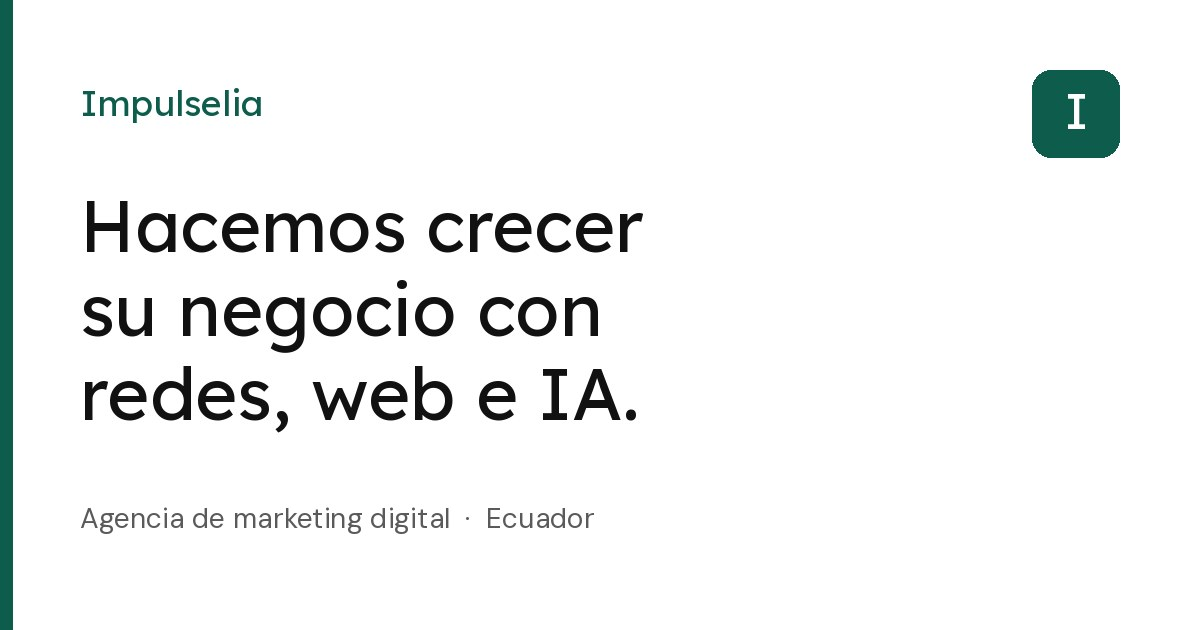
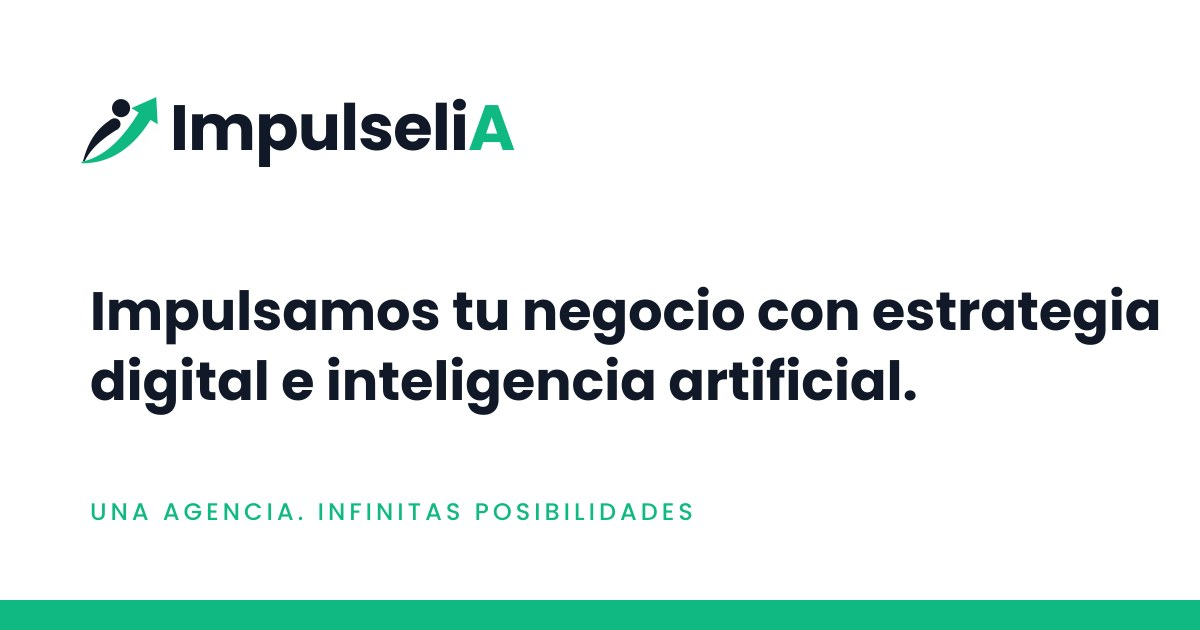
Actualizar ImpulseliA: marca, lema, experiencia previa y secciones nuevas.
Corrige la ortografía ImpulseliA, el lema y la frase principal, cambia
"marcas que confían" por experiencia previa, y publica Sectores, Cómo
trabajamos y FAQ que ya estaban listos en local.

diff --git a/index.html b/index.html
@@ -3,23 +3,23 @@
 <head>
   <meta charset="utf-8">
   <meta name="viewport" content="width=device-width, initial-scale=1, viewport-fit=cover">
-  <title>Impulselia — Marketing digital con redes, web e IA en Ecuador</title>
-  <meta name="description" content="Impulselia ayuda a empresas y profesionales en Ecuador a crecer con redes sociales, páginas web, perfil de Google y contenido con IA que usted aprueba. Diagnóstico gratis.">
-  <meta name="theme-color" content="#0E5C4C">
+  <title>ImpulseliA — Agencia de marketing digital e inteligencia artificial en Ecuador</title>
+  <meta name="description" content="ImpulseliA: agencia de marketing digital en Ecuador. Impulsamos tu negocio con estrategia digital e inteligencia artificial: redes sociales, páginas web, perfil de Google y asistentes con IA. Diagnóstico gratis.">
+  <meta name="theme-color" content="#10B981">
   <link rel="canonical" href="https://coorporacionesleon-svg.github.io/impulselia/">
   <meta property="og:url" content="https://coorporacionesleon-svg.github.io/impulselia/">
-  <meta name="author" content="Impulselia">
+  <meta name="author" content="ImpulseliA">
   <meta property="og:type" content="website">
   <meta property="og:locale" content="es_EC">
-  <meta property="og:site_name" content="Impulselia">
-  <meta property="og:title" content="Impulselia — Hacemos crecer su negocio con redes, web e IA">
+  <meta property="og:site_name" content="ImpulseliA">
+  <meta property="og:title" content="ImpulseliA — Impulsamos tu negocio con estrategia digital e inteligencia artificial">
   <meta property="og:description" content="Agencia de marketing digital en Ecuador. Redes sociales, páginas web, perfil de Google y contenido con IA, con fotos reales en su negocio. Diagnóstico gratis.">
   <meta property="og:image" content="https://coorporacionesleon-svg.github.io/impulselia/assets/img/og.jpg">
   <meta property="og:image:width" content="1200">
   <meta property="og:image:height" content="630">
-  <meta property="og:image:alt" content="Impulselia: Hacemos crecer su negocio con redes, web e IA.">
+  <meta property="og:image:alt" content="ImpulseliA: Impulsamos tu negocio con estrategia digital e inteligencia artificial.">
   <meta name="twitter:card" content="summary_large_image">
-  <meta name="twitter:title" content="Impulselia — Hacemos crecer su negocio con redes, web e IA">
+  <meta name="twitter:title" content="ImpulseliA — Impulsamos tu negocio con estrategia digital e inteligencia artificial">
   <meta name="twitter:description" content="Agencia de marketing digital en Ecuador. Redes, web, perfil de Google y contenido con IA. Diagnóstico gratis.">
   <meta name="twitter:image" content="https://coorporacionesleon-svg.github.io/impulselia/assets/img/og.jpg">
   <link rel="icon" href="assets/img/favicon.svg" type="image/svg+xml">
@@ -29,28 +29,30 @@
   <link rel="preload" href="assets/fonts/lexend.woff2" as="font" type="font/woff2" crossorigin>
   <link rel="preload" href="assets/fonts/dm-sans.woff2" as="font" type="font/woff2" crossorigin>
   <style>
+    @font-face{font-family:Poppins;src:url("assets/fonts/poppins-semibold.woff2") format("woff2");font-weight:500 650;font-display:swap}
+    @font-face{font-family:Poppins;src:url("assets/fonts/poppins-bold.woff2") format("woff2");font-weight:651 900;font-display:swap}
     @font-face{font-family:Lexend;src:url("assets/fonts/lexend.woff2") format("woff2");font-weight:100 900;font-display:swap}
     @font-face{font-family:"DM Sans";src:url("assets/fonts/dm-sans.woff2") format("woff2");font-weight:100 900;font-display:swap}
 
     :root{
       --bg:#fff;
-      --soft:#f5f5f3;
-      --ink:#111;
-      --muted:#5c5c5c;
-      --line:#e6e6e4;
-      --accent:#0E5C4C;
-      --accent-hover:#0a463a;
-      --on-accent:#fff;
+      --soft:#F3F4F6;
+      --ink:#111827;
+      --muted:#4B5563;
+      --line:#E5E7EB;
+      --accent:#10B981;
+      --accent-hover:#0E9F6E;
+      --on-accent:#111827;
       --max:1120px;
-      --disp:"Lexend",system-ui,sans-serif;
+      --disp:"Poppins","Lexend",system-ui,sans-serif;
       --sans:"DM Sans",system-ui,sans-serif;
-      --wa:https://wa.me/593958952980?text=Hola%20Impulselia%2C%20quiero%20mi%20diagn%C3%B3stico%20gratis;
+      --wa:https://wa.me/593958952980?text=Hola%20ImpulseliA%2C%20quiero%20mi%20diagn%C3%B3stico%20gratis;
     }
     *{box-sizing:border-box;margin:0;padding:0}
     html{scroll-behavior:smooth;-webkit-text-size-adjust:100%}
     body{font-family:var(--sans);color:var(--ink);background:var(--bg);line-height:1.5;font-size:18px;font-weight:400}
     img,svg{display:block;max-width:100%;height:auto}
-    a{color:var(--accent);text-decoration-thickness:1px;text-underline-offset:3px}
+    a{color:var(--ink);text-decoration-color:var(--accent);text-decoration-thickness:1px;text-underline-offset:3px}
     a:hover{color:var(--accent-hover)}
     :focus-visible{outline:2px solid var(--accent);outline-offset:3px}
     .skip{position:absolute;left:-999px;top:0;background:var(--accent);color:#fff;padding:.75rem 1rem;z-index:100}
@@ -82,8 +84,8 @@
 
     /* Buttons */
     .btn{display:inline-flex;align-items:center;justify-content:center;gap:10px;font-family:var(--disp);font-weight:600;font-size:1rem;line-height:1;border-radius:999px;padding:16px 24px;text-decoration:none;border:1.5px solid transparent;transition:background .2s,color .2s,transform .2s,box-shadow .2s}
-    .btn-p{background:var(--accent);color:var(--on-accent);box-shadow:0 10px 24px rgba(14,92,76,.18)}
-    .btn-p:hover{background:var(--accent-hover);color:#fff;transform:translateY(-1px)}
+    .btn-p{background:var(--accent);color:var(--on-accent);box-shadow:0 10px 24px rgba(16,185,129,.18)}
+    .btn-p:hover{background:var(--accent-hover);color:#111827;transform:translateY(-1px)}
     .btn-g{background:transparent;color:var(--ink);border-color:var(--line)}
     .btn-g:hover{border-color:var(--ink);color:var(--ink)}
     .btn svg{width:18px;height:18px;flex:0 0 auto}
@@ -96,12 +98,13 @@
       .hero-grid{grid-template-columns:1fr 200px;align-items:end;gap:48px}
     }
     .eyebrow{font-family:var(--disp);font-weight:600;font-size:.78rem;letter-spacing:.14em;text-transform:uppercase;color:var(--accent);margin-bottom:22px}
-    h1{font-family:var(--disp);font-weight:700;letter-spacing:-.035em;line-height:1.02;font-size:clamp(2.7rem, 9.2vw, 5.15rem);max-width:18ch}
+    h1{font-family:var(--disp);font-weight:700;letter-spacing:-.03em;line-height:1.06;font-size:clamp(2.2rem, 7vw, 4.2rem);max-width:20ch}
     .lead{margin-top:24px;font-size:clamp(1.05rem, 2vw, 1.3rem);color:var(--muted);max-width:34ch;line-height:1.45}
     .hero-cta{display:flex;flex-wrap:wrap;align-items:center;gap:16px 22px;margin-top:36px}
     .phone{font-family:var(--disp);font-weight:600;color:var(--ink);text-decoration:none;font-size:1.05rem}
     .phone:hover{color:var(--accent)}
-    .sello{width:148px;height:148px;margin-inline:auto}
+    .sello{width:200px;height:200px;margin-inline:auto}
+    .lema{margin-top:18px;font-family:var(--disp);font-weight:600;font-size:.9rem;letter-spacing:.12em;text-transform:uppercase;color:var(--ink)}.lema span{color:var(--accent)}
     @media(max-width:899px){.sello-wrap{display:none}}
 
     /* Sections */
@@ -111,6 +114,7 @@
     h2{font-family:var(--disp);font-weight:700;letter-spacing:-.03em;line-height:1.08;font-size:clamp(1.9rem, 4.6vw, 3.25rem)}
     .section-head{margin-bottom:48px}
     .section-head p{margin-top:14px;color:var(--muted);font-size:1.1rem;max-width:36ch;line-height:1.45}
+    .section-head p.kicker{margin-top:0;color:var(--accent);font-size:.75rem;max-width:none}
 
     /* Services */
     #servicios{background:var(--soft);border-block:1px solid var(--line)}
@@ -146,7 +150,7 @@
     .plans{display:grid;gap:18px}
     @media(min-width:860px){.plans{grid-template-columns:1fr 1fr 1fr;gap:20px;align-items:stretch}}
     .plan{background:#fff;border:1px solid var(--line);border-radius:20px;padding:28px 26px 30px;display:flex;flex-direction:column;position:relative}
-    .plan.hi{border:2px solid var(--accent);box-shadow:0 18px 40px rgba(14,92,76,.1);padding-top:36px}
+    .plan.hi{border:2px solid var(--accent);box-shadow:0 18px 40px rgba(16,185,129,.1);padding-top:36px}
     .badge{position:absolute;top:-13px;left:24px;background:var(--accent);color:#fff;font-family:var(--disp);font-weight:700;font-size:.68rem;letter-spacing:.1em;text-transform:uppercase;padding:6px 12px;border-radius:999px}
     .plan h3{font-family:var(--disp);font-weight:650;font-size:1.15rem;color:var(--accent)}
     .price{font-family:var(--disp);font-weight:700;letter-spacing:-.03em;font-size:3rem;line-height:1;margin:10px 0 6px}
@@ -210,24 +214,46 @@
       .work img,.btn{transition:none}
       .btn-p:hover{transform:none}
     }
+
+    /* Sectores, pasos, FAQ (v5) */
+    section.alt{background:var(--soft)}
+    .sectors{list-style:none;display:grid;gap:14px;grid-template-columns:repeat(auto-fill,minmax(240px,1fr))}
+    .sectors li{background:#fff;border:1px solid var(--line);border-radius:16px;padding:20px 20px 22px;border-top:4px solid var(--accent)}
+    .sectors b{display:block;font-family:var(--disp);font-weight:600;font-size:1.02rem;margin-bottom:6px}
+    .sectors span{color:var(--muted);font-size:.95rem;line-height:1.4}
+    .steps{list-style:none;counter-reset:s;display:grid;gap:14px}
+    @media(min-width:900px){.steps{grid-template-columns:repeat(5,1fr)}}
+    .steps li{counter-increment:s;border:1px solid var(--line);border-radius:16px;padding:22px 20px}
+    .steps li::before{content:counter(s);display:grid;place-items:center;width:36px;height:36px;border-radius:50%;background:var(--accent);color:#111827;font-family:var(--disp);font-weight:700;margin-bottom:12px}
+    .steps b{display:block;font-family:var(--disp);font-weight:600;margin-bottom:6px}
+    .steps span{color:var(--muted);font-size:.95rem;line-height:1.4}
+    .faq{display:grid;gap:10px;max-width:820px}
+    .faq details{background:#fff;border:1px solid var(--line);border-radius:14px;padding:18px 20px}
+    .faq summary{cursor:pointer;font-family:var(--disp);font-weight:600;list-style:none;display:flex;justify-content:space-between;gap:12px}
+    .faq summary::after{content:"+";color:var(--accent);font-weight:700}
+    .faq details[open] summary::after{content:"–"}
+    .faq p{margin-top:10px;color:var(--muted)}
+    .svc-more{margin-top:28px;color:var(--muted);font-size:.98rem;max-width:70ch}
   </style>
+  <script type="application/ld+json">{"@context":"https://schema.org","@type":"ProfessionalService","name":"ImpulseliA","slogan":"Una agencia. Infinitas posibilidades","description":"Agencia de marketing digital en Ecuador: redes sociales, páginas web, perfil de Google y asistentes con inteligencia artificial.","url":"https://coorporacionesleon-svg.github.io/impulselia/","telephone":"+593958952980","areaServed":"EC","logo":"https://coorporacionesleon-svg.github.io/impulselia/assets/img/favicon-512.png"}</script>
 </head>
 <body>
   <a class="skip" href="#inicio">Saltar al contenido</a>
   <header>
     <div class="wrap bar">
       <a class="brand" href="#inicio">
-        <img src="assets/img/favicon.svg" width="32" height="32" alt="">
-        Impulselia
+        <img src="assets/img/logo-impulselia.svg" width="176" height="36" alt="ImpulseliA" style="width:auto;height:36px">
       </a>
       <input type="checkbox" id="nav-toggle" class="nav-toggle" autocomplete="off">
       <label class="burger" for="nav-toggle" aria-label="Abrir menú"><span></span><span></span><span></span></label>
       <nav class="links" aria-label="Principal">
         <a href="#servicios">Servicios</a>
-        <a href="#portafolio">Portafolio</a>
+        <a href="#sectores">Sectores</a>
+        <a href="#como-trabajamos">Cómo trabajamos</a>
         <a href="#paquetes">Paquetes</a>
+        <a href="#preguntas">Preguntas</a>
         <a href="#contacto">Contacto</a>
-        <a class="btn btn-p wa-btn" href="https://wa.me/593958952980?text=Hola%20Impulselia%2C%20quiero%20mi%20diagn%C3%B3stico%20gratis">WhatsApp</a>
+        <a class="btn btn-p wa-btn" href="https://wa.me/593958952980?text=Hola%20ImpulseliA%2C%20quiero%20mi%20diagn%C3%B3stico%20gratis">WhatsApp</a>
       </nav>
     </div>
   </header>
@@ -236,19 +262,20 @@
     <section class="hero">
       <div class="wrap hero-grid">
         <div>
-          <p class="eyebrow">Especialistas en IA para empresas · Ecuador</p>
-          <h1>Hacemos crecer<br>su negocio con<br>redes, web e IA.</h1>
-          <p class="lead">Fotos reales, contenido que usted aprueba y un perfil de Google al día.</p>
+          <p class="eyebrow">Agencia de marketing digital · Ecuador</p>
+          <h1>Impulsamos tu negocio con estrategia digital e inteligencia artificial.</h1>
+          <p class="lead">Redes sociales, páginas web, perfil de Google y asistentes con IA, con fotos reales de su negocio y contenido que usted aprueba.</p>
+          <p class="lema">Una agencia. <span>Infinitas posibilidades.</span></p>
           <div class="hero-cta">
-            <a class="btn btn-p" href="https://wa.me/593958952980?text=Hola%20Impulselia%2C%20quiero%20mi%20diagn%C3%B3stico%20gratis">
+            <a class="btn btn-p" href="https://wa.me/593958952980?text=Hola%20ImpulseliA%2C%20quiero%20mi%20diagn%C3%B3stico%20gratis">
               <svg viewBox="0 0 24 24" fill="currentColor" aria-hidden="true"><path d="M20.5 3.5A11 11 0 0 0 2.1 17.3L1 23l5.8-1.1A11 11 0 0 0 20.5 3.5zm-8.5 17a9.1 9.1 0 0 1-4.6-1.3l-.33-.2-3.45.66.67-3.36-.22-.35A9.1 9.1 0 1 1 12 20.5zm5.2-6.8c-.28-.14-1.66-.82-1.92-.91-.26-.1-.45-.14-.64.14-.19.28-.73.91-.9 1.1-.16.18-.33.21-.61.07-.28-.14-1.18-.43-2.25-1.39-.83-.74-1.39-1.65-1.55-1.93-.16-.28-.02-.43.12-.57.13-.13.28-.33.42-.5.14-.16.19-.28.28-.47.1-.18.05-.35-.02-.5-.07-.14-.64-1.54-.88-2.11-.23-.55-.47-.47-.64-.48h-.55c-.19 0-.5.07-.76.35-.26.28-1 1-1 2.43s1.03 2.82 1.17 3.02c.14.19 2.02 3.08 4.9 4.32.68.3 1.22.47 1.64.6.69.22 1.31.19 1.8.11.55-.08 1.66-.68 1.9-1.33.23-.65.23-1.21.16-1.33-.07-.11-.25-.18-.53-.32z"/></svg>
               Quiero mi diagnóstico gratis
             </a>
-            <a class="phone" href="https://wa.me/593958952980?text=Hola%20Impulselia%2C%20quiero%20mi%20diagn%C3%B3stico%20gratis">WhatsApp 095 895 2980</a>
+            <a class="phone" href="https://wa.me/593958952980?text=Hola%20ImpulseliA%2C%20quiero%20mi%20diagn%C3%B3stico%20gratis">WhatsApp 095 895 2980</a>
           </div>
         </div>
         <div class="sello-wrap">
-          <img class="sello" src="assets/img/sello.svg" width="148" height="148" alt="Especialistas en IA para empresas, Ecuador">
+          <img class="sello" src="assets/img/isotipo.svg" width="200" height="200" alt="">
         </div>
       </div>
     </section>
@@ -283,7 +310,7 @@
           <article>
             <div class="n">05</div>
             <h3>Asistente de WhatsApp con IA</h3>
-            <p>Responde preguntas frecuentes, ofrece citas y envía recordatorios. No diagnostica ni entrega resultados.</p>
+            <p>Responde consultas generales y administrativas, ofrece citas y envía recordatorios. No diagnostica ni entrega resultados; las consultas clínicas pasan al profesional.</p>
           </article>
           <article>
             <div class="n">06</div>
@@ -294,33 +321,74 @@
       </div>
     </section>
 
+
+    <section id="sectores" class="alt">
+      <div class="wrap">
+        <div class="section-head">
+          <p class="kicker">Sectores</p>
+          <h2>Soluciones que se adaptan<br>a su tipo de negocio</h2>
+          <p>Ajustamos la estrategia, el contenido y las herramientas a cada industria.</p>
+        </div>
+        <ul class="sectors">
+          <li><b>Clínicas y consultorios médicos</b><span>Contenido educativo aprobado por el profesional.</span></li>
+          <li><b>Radiólogos y especialistas de salud</b><span>Preparación de estudios explicada en palabras simples.</span></li>
+          <li><b>Restaurantes y cafeterías</b><span>Fotos que abren el apetito, menú y reservas por WhatsApp.</span></li>
+          <li><b>Tiendas y comercios</b><span>Catálogo, promociones y ventas por mensaje.</span></li>
+          <li><b>Bienes raíces</b><span>Fotos y videos de propiedades, contactos ordenados.</span></li>
+          <li><b>Hoteles y turismo</b><span>Contenido que invita a visitar y reservas directas.</span></li>
+          <li><b>Educación</b><span>Inscripciones, información y comunidad.</span></li>
+          <li><b>Empresas y PYMES</b><span>Presencia profesional y procesos más simples.</span></li>
+          <li><b>Belleza y estética</b><span>Antes y después con autorización, citas por WhatsApp.</span></li>
+          <li><b>Automotriz</b><span>Inventario, servicios y agenda de taller.</span></li>
+          <li><b>Profesionales independientes</b><span>Marca personal, web y agenda.</span></li>
+        </ul>
+      </div>
+    </section>
+
+    <section id="como-trabajamos">
+      <div class="wrap">
+        <div class="section-head">
+          <p class="kicker">Cómo trabajamos</p>
+          <h2>Un proceso simple,<br>con su aprobación en cada paso</h2>
+        </div>
+        <ol class="steps">
+          <li><b>Diagnóstico gratis</b><span>Revisamos sus redes, su web y su perfil de Google, sin compromiso.</span></li>
+          <li><b>Propuesta y muestras</b><span>Le proponemos un plan y le mostramos 3 contenidos hechos para usted.</span></li>
+          <li><b>Sesión de fotos y video</b><span>Vamos a su negocio con cámara profesional.</span></li>
+          <li><b>Usted aprueba</b><span>Nada se publica sin su visto bueno.</span></li>
+          <li><b>Publicamos y le informamos</b><span>Publicamos lo acordado y le contamos cómo va, mes a mes.</span></li>
+        </ol>
+      </div>
+    </section>
+
     <section id="portafolio">
       <div class="wrap">
         <div class="section-head">
-          <p class="kicker">Portafolio</p>
-          <h2>Marcas que ya<br>confían en nosotros</h2>
+          <p class="kicker">Experiencia previa</p>
+          <h2>Trabajos realizados<br>para conocidos</h2>
+          <p>Hace aproximadamente un año hicimos estos cuatro trabajos digitales de forma informal. Nos dieron experiencia práctica y muestran nuestro estilo.</p>
         </div>
         <div class="grid-works">
           <a class="work" href="https://www.instagram.com/licorinoec/" target="_blank" rel="noopener noreferrer">
-            <div class="pic sq"><img src="assets/img/licorino.webp" alt="Publicaciones de Instagram de Licorino EC: licores, cocteles y marcas" width="1080" height="1080"></div>
+            <div class="pic sq"><img loading="lazy" decoding="async" src="assets/img/licorino.webp" alt="Publicaciones de Instagram de Licorino EC: licores, cocteles y marcas" width="1080" height="1080"></div>
             <h3>Licorino</h3>
             <p>Licores y cocteles</p>
             <span class="go">Ver Instagram ↗</span>
           </a>
           <a class="work" href="https://www.instagram.com/dulce.pretexto/" target="_blank" rel="noopener noreferrer">
-            <div class="pic"><img src="assets/img/dulce-pretexto.webp" alt="Postre de lima de la repostería Dulce Pretexto, en Quito" width="607" height="640"></div>
+            <div class="pic"><img loading="lazy" decoding="async" src="assets/img/dulce-pretexto.webp" alt="Postre de lima de la repostería Dulce Pretexto, en Quito" width="607" height="640"></div>
             <h3>Dulce Pretexto</h3>
             <p>Repostería · Quito</p>
             <span class="go">Ver Instagram ↗</span>
           </a>
           <a class="work" href="https://www.instagram.com/hosterialoscedros/" target="_blank" rel="noopener noreferrer">
-            <div class="pic"><img src="assets/img/los-cedros.webp" alt="Letrero de madera de la Hostería Los Cedros, en Mindo" width="360" height="640"></div>
+            <div class="pic"><img loading="lazy" decoding="async" src="assets/img/los-cedros.webp" alt="Letrero de madera de la Hostería Los Cedros, en Mindo" width="360" height="640"></div>
             <h3>Hostería Los Cedros</h3>
             <p>Hostería · Mindo</p>
             <span class="go">Ver Instagram ↗</span>
           </a>
           <a class="work span" href="https://medicina-interna-leo-gpl3zv.abacusai.app/" target="_blank" rel="noopener noreferrer">
-            <div class="pic wide"><img src="assets/img/dr-leon.webp" style="object-position:top center" alt="Página web del Dr. Franklin León, médico internista" width="1280" height="800"></div>
+            <div class="pic wide"><img loading="lazy" decoding="async" src="assets/img/dr-leon.webp" style="object-position:top center" alt="Página web del Dr. Franklin León, médico internista" width="1280" height="800"></div>
             <h3>Dr. Franklin León</h3>
             <p>Página web · Medicina interna</p>
             <span class="go">Ver sitio ↗</span>
@@ -349,7 +417,7 @@
               <li>Actualización de web aparte: $200</li>
               <li>Asistente de WhatsApp con IA: opcional, con costo adicional</li>
             </ul>
-            <a class="btn btn-g" href="https://wa.me/593958952980?text=Hola%20Impulselia%2C%20me%20interesa%20el%20paquete%20Esencial">Elegir Esencial</a>
+            <a class="btn btn-g" href="https://wa.me/593958952980?text=Hola%20ImpulseliA%2C%20me%20interesa%20el%20paquete%20Esencial">Elegir Esencial</a>
           </article>
           <article class="plan hi">
             <div class="badge">Más recomendado</div>
@@ -366,7 +434,7 @@
               <li>Perfil de Google</li>
               <li>Asistente de WhatsApp con IA incluido, sin costo de instalación</li>
             </ul>
-            <a class="btn btn-p" href="https://wa.me/593958952980?text=Hola%20Impulselia%2C%20me%20interesa%20el%20paquete%20Profesional">Elegir Profesional</a>
+            <a class="btn btn-p" href="https://wa.me/593958952980?text=Hola%20ImpulseliA%2C%20me%20interesa%20el%20paquete%20Profesional">Elegir Profesional</a>
           </article>
           <article class="plan">
             <h3>Premium</h3>
@@ -381,7 +449,7 @@
               <li>Perfil de Google</li>
               <li>Asistente de WhatsApp con IA incluido</li>
             </ul>
-            <a class="btn btn-g" href="https://wa.me/593958952980?text=Hola%20Impulselia%2C%20me%20interesa%20el%20paquete%20Premium">Elegir Premium</a>
+            <a class="btn btn-g" href="https://wa.me/593958952980?text=Hola%20ImpulseliA%2C%20me%20interesa%20el%20paquete%20Premium">Elegir Premium</a>
           </article>
         </div>
         <div class="strip"><strong>En los 3 paquetes:</strong> sesión mensual con cámara profesional Sony Alpha · contenido hecho con apoyo de IA y aprobado por usted · perfil de Google · mes a mes, sin permanencia.</div>
@@ -393,7 +461,7 @@
       <div class="wrap">
         <div class="section-head">
           <p class="kicker">Comparación</p>
-          <h2>¿Por qué Impulselia?</h2>
+          <h2>¿Por qué ImpulseliA?</h2>
           <p>Comparado con precios publicados por otras agencias en Ecuador.</p>
         </div>
         <div class="cmp">
@@ -412,7 +480,7 @@
             <p>Agenda y recordatorios por WhatsApp. Es un servicio de asistente con IA.</p>
           </article>
           <article class="card hi">
-            <div class="who">Impulselia</div>
+            <div class="who">ImpulseliA</div>
             <p class="who-sub">Redes, web, Google y WhatsApp con IA</p>
             <div class="price"><small>desde </small>$220<small>/mes</small></div>
             <p class="plus">Profesional $380/mes, con asistente de WhatsApp con IA incluido, sin costo de instalación.</p>
@@ -459,6 +527,25 @@
     </section>
 
 
+
+    <section id="preguntas" class="alt">
+      <div class="wrap">
+        <div class="section-head">
+          <p class="kicker">Preguntas frecuentes</p>
+          <h2>Lo que nos suelen preguntar</h2>
+        </div>
+        <div class="faq">
+          <details><summary>¿Tengo que firmar un contrato largo?</summary><p>No. Los paquetes son mes a mes, sin permanencia.</p></details>
+          <details><summary>¿Qué está incluido en el precio?</summary><p>Lo que detalla cada paquete. Los precios son referenciales, sin IVA, y la publicidad pagada va aparte.</p></details>
+          <details><summary>¿Publican algo sin mi permiso?</summary><p>No. Usted revisa y aprueba cada pieza antes de publicarla.</p></details>
+          <details><summary>¿Cómo usan la inteligencia artificial?</summary><p>Como apoyo para producir textos, diseños y asistentes. Una persona del equipo revisa todo, y usted aprueba antes de publicar.</p></details>
+          <details><summary>Soy médico, ¿qué cuidados tienen?</summary><p>El contenido es educativo y la información clínica la aprueba usted. No publicamos datos ni imágenes de pacientes sin autorización válida. El asistente con IA solo atiende consultas generales y administrativas, no diagnostica ni interpreta imágenes, y deriva las consultas clínicas a usted.</p></details>
+          <details><summary>¿Necesito darles mis contraseñas?</summary><p>No. Nunca le pediremos contraseñas por mensaje. Le ayudamos a darnos acceso con los permisos de cada plataforma (por ejemplo, el administrador de Meta o los usuarios de Google), que usted puede quitar cuando quiera.</p></details>
+          <details><summary>¿Garantizan resultados?</summary><p>No prometemos resultados garantizados. Sí nos comprometemos con un trabajo constante, ordenado y aprobado por usted.</p></details>
+        </div>
+      </div>
+    </section>
+
     <section id="pago">
       <div class="wrap">
         <div class="section-head">
@@ -484,11 +571,11 @@
         <h2>¿Cuál es su próximo paso?</h2>
         <p class="lead">Confirme el paquete que necesita. Si nos escribe hoy, esta misma semana hacemos la primera sesión de fotos.</p>
         <div class="cta-row">
-          <a class="btn btn-p" href="https://wa.me/593958952980?text=Hola%20Impulselia%2C%20quiero%20mi%20diagn%C3%B3stico%20gratis">
+          <a class="btn btn-p" href="https://wa.me/593958952980?text=Hola%20ImpulseliA%2C%20quiero%20mi%20diagn%C3%B3stico%20gratis">
             <svg viewBox="0 0 24 24" fill="currentColor" aria-hidden="true"><path d="M20.5 3.5A11 11 0 0 0 2.1 17.3L1 23l5.8-1.1A11 11 0 0 0 20.5 3.5zm-8.5 17a9.1 9.1 0 0 1-4.6-1.3l-.33-.2-3.45.66.67-3.36-.22-.35A9.1 9.1 0 1 1 12 20.5zm5.2-6.8c-.28-.14-1.66-.82-1.92-.91-.26-.1-.45-.14-.64.14-.19.28-.73.91-.9 1.1-.16.18-.33.21-.61.07-.28-.14-1.18-.43-2.25-1.39-.83-.74-1.39-1.65-1.55-1.93-.16-.28-.02-.43.12-.57.13-.13.28-.33.42-.5.14-.16.19-.28.28-.47.1-.18.05-.35-.02-.5-.07-.14-.64-1.54-.88-2.11-.23-.55-.47-.47-.64-.48h-.55c-.19 0-.5.07-.76.35-.26.28-1 1-1 2.43s1.03 2.82 1.17 3.02c.14.19 2.02 3.08 4.9 4.32.68.3 1.22.47 1.64.6.69.22 1.31.19 1.8.11.55-.08 1.66-.68 1.9-1.33.23-.65.23-1.21.16-1.33-.07-.11-.25-.18-.53-.32z"/></svg>
             Escribir por WhatsApp
           </a>
-          <a class="phone" href="https://wa.me/593958952980?text=Hola%20Impulselia%2C%20quiero%20mi%20diagn%C3%B3stico%20gratis">095 895 2980</a>
+          <a class="phone" href="https://wa.me/593958952980?text=Hola%20ImpulseliA%2C%20quiero%20mi%20diagn%C3%B3stico%20gratis">095 895 2980</a>
         </div>
       </div>
     </section>
@@ -499,11 +586,11 @@
       <div class="foot-brand">
         <img src="assets/img/favicon.svg" width="32" height="32" alt="">
         <div>
-          <div>Impulselia</div>
-          <div class="legal">© 2026 Impulselia. Especialistas en IA para empresas · Ecuador.</div>
+          <div>ImpulseliA</div>
+          <div class="legal">© 2026 ImpulseliA. Una agencia. Infinitas posibilidades · Ecuador.</div>
         </div>
       </div>
-      <img class="sello" src="assets/img/sello.svg" width="72" height="72" alt="">
+      <img src="assets/img/isotipo.svg" width="56" height="56" alt="">
     </div>
   </footer>
 
